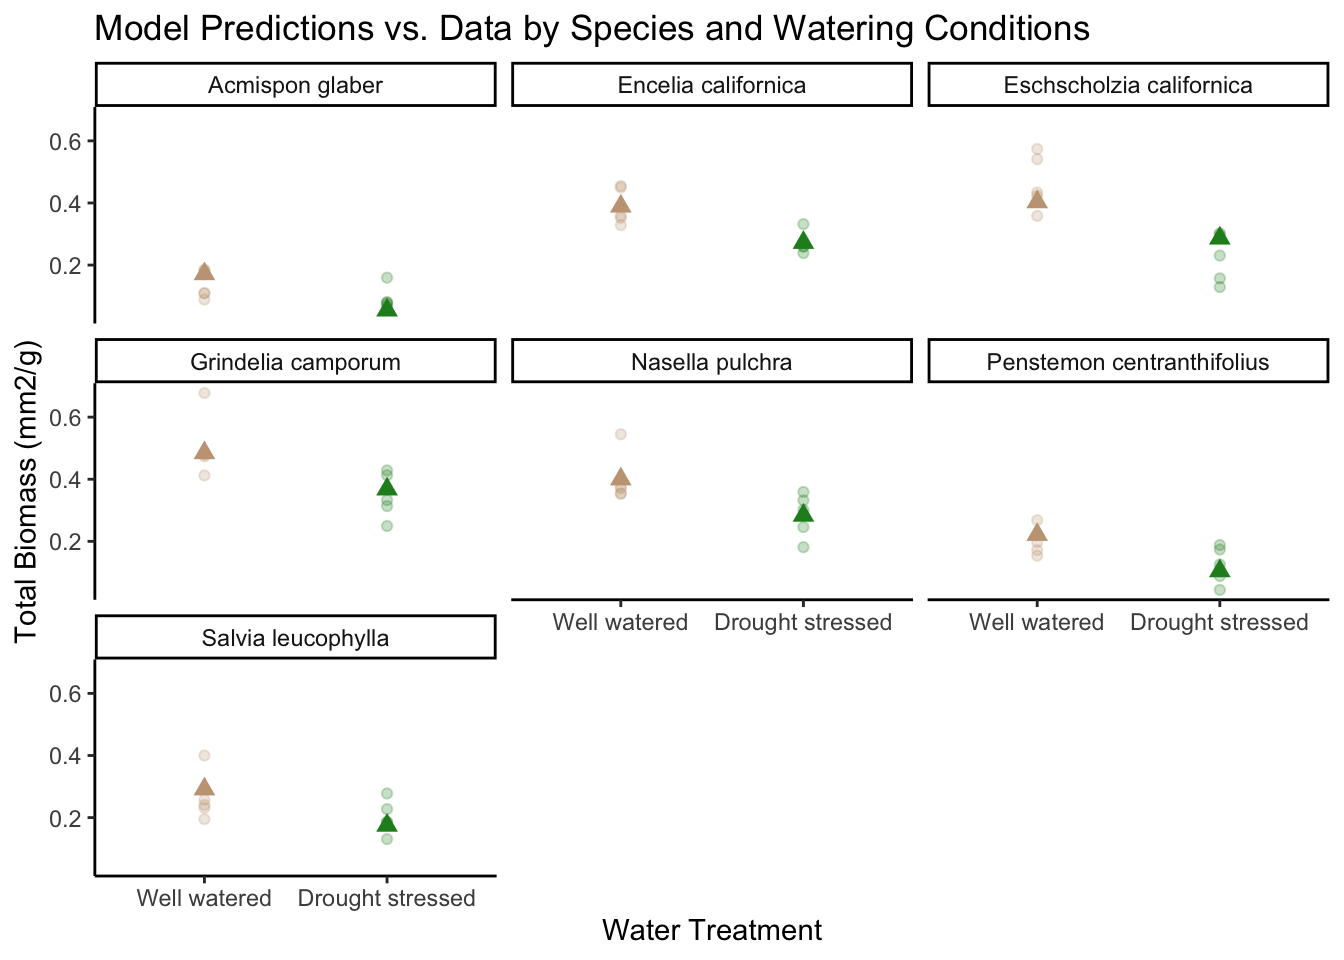
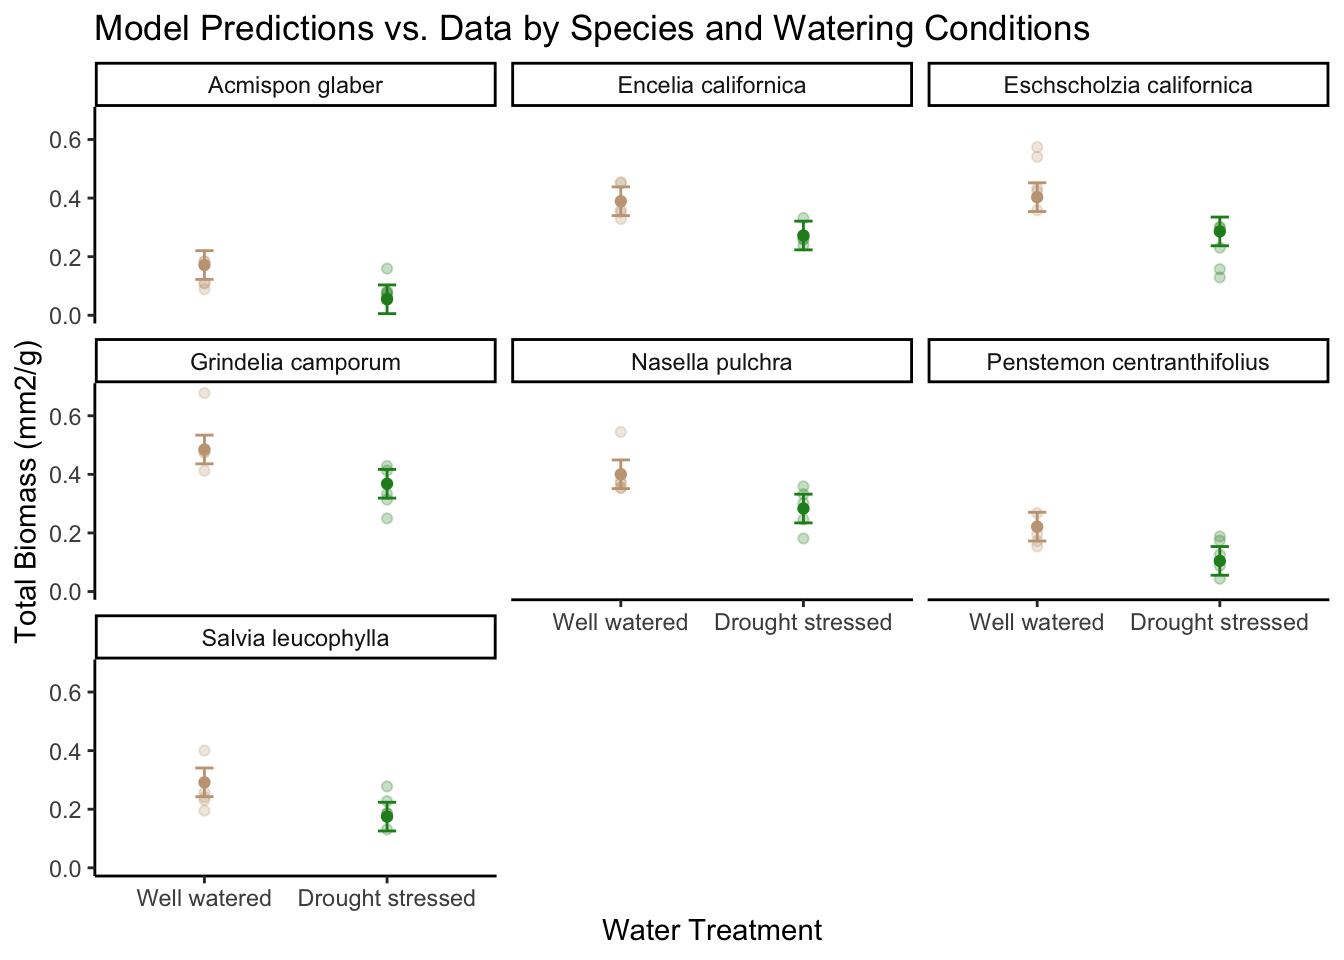
last edits i swear

diff --git a/code/ENVS193DS_homework-03.html b/code/ENVS193DS_homework-03.html
@@ -169,7 +169,7 @@ pre > code.sourceCode > span > a:first-child::before { text-decoration: underlin
 </colgroup>
 <tbody>
 <tr class="odd">
-<td><strong>Table 1: Comparison of Regression Models</strong>. This table shows the five regression models used to predict total biomass (g): “Null,” “Model 1,” “Model 2,” “Model 3,” and “Model 4.” Each column is a separate model. The header row indicates the predictor variable in question and check marks in the rows indicate that predictor variable was used in the model.</td>
+<td><strong>Table 1: Comparison of Regression Models</strong>. This table shows the five regression models used to predict total biomass (g): “Null,” “Model 1,” “Model 2,” “Model 3,” and “Model 4.” Each column is a separate model. The header row indicates the predictor variable in question and check marks in the rows indicate that predictor variable was used in the model. The last two rows indicate AICc and Δ AIC for each model.</td>
 </tr>
 </tbody>
 </table>
@@ -217,12 +217,28 @@ pre > code.sourceCode > span > a:first-child::before { text-decoration: underlin
 <td>✓</td>
 <td>✓</td>
 </tr>
+<tr class="even">
+<td><strong>AICc</strong></td>
+<td>-75.0</td>
+<td>-153.8</td>
+<td>-95.8</td>
+<td>-124.1</td>
+<td>-156.2</td>
+</tr>
+<tr class="odd">
+<td><strong>Δ AIC</strong></td>
+<td>81.22</td>
+<td>2.44</td>
+<td>60.37</td>
+<td>32.12</td>
+<td>0.000</td>
+</tr>
 </tbody>
 </table>
 </section>
 <section id="b.-statistical-methods" class="level3">
 <h3 class="anchored" data-anchor-id="b.-statistical-methods">b. Statistical Methods</h3>
-<p>To examine the influence of specific leaf area (mm<sup>2</sup>/g), watering level (well watered vs drought stressed, and species type on total biomass, I compared the five models outlined in the table above in order to determine which predictor variables best influence total biomass. I used the <code>model.sel</code> function from the <code>MuMIn</code> package which uses corrected (for smaller sample size) Akaike Information Criterion (AICc) to rank the provided models according to their AICc values. Model 4, which looks at total biomass as a function of water treatment and species, has the lowest AICc value (-156.2) and highest weight (0.772), indicating it is the best model among those compared. To evaluate linear model assumptions, I used the <code>plot</code> for each model to evaluate the diagnostic plots for residuals vs fitted values, the Normal Q-Q plot, the Scale-Location plot, and the residuals vs.&nbsp;leverage plot. These visual checks confirmed the models were homoscedastic, normally distributed, and linear.</p>
+<p>To examine the influence of specific leaf area (mm<sup>2</sup>/g), watering level (well watered vs drought stressed, and species type on total biomass, I compared the five models outlined in the table above in order to determine which predictor variables best influence total biomass. The null model uses no predictor variables and represents a scenario in which none of the variables predict total biomass. Model 1 is a saturated model which uses all of the predictor variables. I used the <code>model.sel</code> function from the <code>MuMIn</code> package which uses corrected (for smaller sample size) Akaike Information Criterion (AICc) to rank the provided models according to their AICc values. Model 4, which looks at total biomass as a function of water treatment and species, has the lowest AICc value (-156.2) and highest weight (0.772), indicating it is the best model among those compared. To evaluate linear model assumptions, I used the <code>plot</code> function for each model to evaluate the diagnostic plots for residuals vs fitted values, the Normal Q-Q plot, the Scale-Location plot, and the residuals vs.&nbsp;leverage plot. These visual checks confirmed the models were homoscedastic, normally distributed, and linear.</p>
 </section>
 <section id="c.-visualization" class="level3">
 <h3 class="anchored" data-anchor-id="c.-visualization">c.&nbsp;Visualization</h3>
@@ -254,24 +270,31 @@ pre > code.sourceCode > span > a:first-child::before { text-decoration: underlin
 <span id="cb4-16"><a href="#cb4-16" aria-hidden="true" tabindex="-1"></a>             <span class="fu">aes</span>(<span class="at">x =</span> water_treatment, <span class="co"># x axis is water treatment</span></span>
 <span id="cb4-17"><a href="#cb4-17" aria-hidden="true" tabindex="-1"></a>                 <span class="at">y =</span> predicted, <span class="co">#y axis is predicted total biomass (g)</span></span>
 <span id="cb4-18"><a href="#cb4-18" aria-hidden="true" tabindex="-1"></a>                 <span class="at">color =</span> water_treatment), <span class="co">#color based on water treatment </span></span>
-<span id="cb4-19"><a href="#cb4-19" aria-hidden="true" tabindex="-1"></a>             <span class="at">size =</span> <span class="fl">2.5</span>,  <span class="co"># Making model prediction points larger for visibility</span></span>
-<span id="cb4-20"><a href="#cb4-20" aria-hidden="true" tabindex="-1"></a>             <span class="at">shape =</span> <span class="dv">17</span>) <span class="sc">+</span>  <span class="co"># Changing shape to triangle for better differentiation</span></span>
-<span id="cb4-21"><a href="#cb4-21" aria-hidden="true" tabindex="-1"></a>  <span class="co"># Cleaner theme</span></span>
-<span id="cb4-22"><a href="#cb4-22" aria-hidden="true" tabindex="-1"></a>  <span class="fu">theme_classic</span>() <span class="sc">+</span></span>
-<span id="cb4-23"><a href="#cb4-23" aria-hidden="true" tabindex="-1"></a></span>
-<span id="cb4-24"><a href="#cb4-24" aria-hidden="true" tabindex="-1"></a>  <span class="co"># Add labels </span></span>
-<span id="cb4-25"><a href="#cb4-25" aria-hidden="true" tabindex="-1"></a>  <span class="fu">labs</span>(<span class="at">x =</span> <span class="st">"Water Treatment"</span>, <span class="at">y =</span> <span class="st">"Total Biomass (mm2/g)"</span>, <span class="at">title =</span> <span class="st">"Model Predictions vs. Data by Species and Watering Conditions"</span>) <span class="sc">+</span></span>
-<span id="cb4-26"><a href="#cb4-26" aria-hidden="true" tabindex="-1"></a>  </span>
-<span id="cb4-27"><a href="#cb4-27" aria-hidden="true" tabindex="-1"></a><span class="co"># Remove legend</span></span>
-<span id="cb4-28"><a href="#cb4-28" aria-hidden="true" tabindex="-1"></a>  <span class="fu">theme</span>(<span class="at">legend.position =</span> <span class="st">"none"</span>) <span class="sc">+</span></span>
-<span id="cb4-29"><a href="#cb4-29" aria-hidden="true" tabindex="-1"></a>  </span>
-<span id="cb4-30"><a href="#cb4-30" aria-hidden="true" tabindex="-1"></a><span class="co"># Creating different panels for species</span></span>
-<span id="cb4-31"><a href="#cb4-31" aria-hidden="true" tabindex="-1"></a>  <span class="fu">facet_wrap</span>(<span class="sc">~</span>species_name)</span></code><button title="Copy to Clipboard" class="code-copy-button"><i class="bi"></i></button></pre></div>
+<span id="cb4-19"><a href="#cb4-19" aria-hidden="true" tabindex="-1"></a>             <span class="at">size =</span> <span class="fl">1.5</span>,  <span class="co"># Making model prediction points larger for visibility</span></span>
+<span id="cb4-20"><a href="#cb4-20" aria-hidden="true" tabindex="-1"></a>             <span class="at">shape =</span> <span class="dv">19</span>) <span class="sc">+</span>  <span class="co"># Changing shape to triangle for better differentiation</span></span>
+<span id="cb4-21"><a href="#cb4-21" aria-hidden="true" tabindex="-1"></a>  <span class="fu">geom_errorbar</span>(<span class="at">data =</span> model_preds_for_plotting,  <span class="co"># Adding error bars</span></span>
+<span id="cb4-22"><a href="#cb4-22" aria-hidden="true" tabindex="-1"></a>                <span class="fu">aes</span>(<span class="at">x =</span> water_treatment, </span>
+<span id="cb4-23"><a href="#cb4-23" aria-hidden="true" tabindex="-1"></a>                    <span class="at">ymin =</span> conf.low,  <span class="co"># lower CI bound</span></span>
+<span id="cb4-24"><a href="#cb4-24" aria-hidden="true" tabindex="-1"></a>                    <span class="at">ymax =</span> conf.high,  <span class="co"># upper CI bound</span></span>
+<span id="cb4-25"><a href="#cb4-25" aria-hidden="true" tabindex="-1"></a>                    <span class="at">color =</span> water_treatment), <span class="co">#fill color based on water treatment</span></span>
+<span id="cb4-26"><a href="#cb4-26" aria-hidden="true" tabindex="-1"></a>                <span class="at">width =</span> <span class="fl">0.1</span>,  <span class="co"># Width of the error bars</span></span>
+<span id="cb4-27"><a href="#cb4-27" aria-hidden="true" tabindex="-1"></a>                <span class="at">size =</span> <span class="fl">0.5</span>) <span class="sc">+</span>  <span class="co"># Thickness of the error bars</span></span>
+<span id="cb4-28"><a href="#cb4-28" aria-hidden="true" tabindex="-1"></a>  <span class="co"># Cleaner theme</span></span>
+<span id="cb4-29"><a href="#cb4-29" aria-hidden="true" tabindex="-1"></a>  <span class="fu">theme_classic</span>() <span class="sc">+</span></span>
+<span id="cb4-30"><a href="#cb4-30" aria-hidden="true" tabindex="-1"></a></span>
+<span id="cb4-31"><a href="#cb4-31" aria-hidden="true" tabindex="-1"></a>  <span class="co"># Add labels </span></span>
+<span id="cb4-32"><a href="#cb4-32" aria-hidden="true" tabindex="-1"></a>  <span class="fu">labs</span>(<span class="at">x =</span> <span class="st">"Water Treatment"</span>, <span class="at">y =</span> <span class="st">"Total Biomass (mm2/g)"</span>, <span class="at">title =</span> <span class="st">"Model Predictions vs. Data by Species and Watering Conditions"</span>) <span class="sc">+</span></span>
+<span id="cb4-33"><a href="#cb4-33" aria-hidden="true" tabindex="-1"></a>  </span>
+<span id="cb4-34"><a href="#cb4-34" aria-hidden="true" tabindex="-1"></a><span class="co"># Remove legend</span></span>
+<span id="cb4-35"><a href="#cb4-35" aria-hidden="true" tabindex="-1"></a>  <span class="fu">theme</span>(<span class="at">legend.position =</span> <span class="st">"none"</span>) <span class="sc">+</span></span>
+<span id="cb4-36"><a href="#cb4-36" aria-hidden="true" tabindex="-1"></a>  </span>
+<span id="cb4-37"><a href="#cb4-37" aria-hidden="true" tabindex="-1"></a><span class="co"># Creating different panels for species</span></span>
+<span id="cb4-38"><a href="#cb4-38" aria-hidden="true" tabindex="-1"></a>  <span class="fu">facet_wrap</span>(<span class="sc">~</span>species_name)</span></code><button title="Copy to Clipboard" class="code-copy-button"><i class="bi"></i></button></pre></div>
 <div class="cell-output-display">
 <p><img src="ENVS193DS_homework-03_files/figure-html/unnamed-chunk-4-1.png" class="img-fluid" width="672"></p>
 </div>
 </div>
-<p><strong>Figure 1: Well-watered plants tend to have higher total biomass than drought stressed plants.</strong> The above graph shows differences in total plant biomass between different water treatment types and species. The lighter circular points indicate underlying data while the triangular points indicate the model prediction values for each group. Among all species, well watered groups have higher predicted biomass than drought-stressed groups. Species type also influences predicted total biomass.</p>
+<p><strong>Figure 1: Well-watered plants tend to have higher total biomass than drought stressed plants.</strong> The above graph shows differences in total plant biomass between different water treatment types and species. The lighter circular points indicate underlying data while the triangular points indicate the model prediction values for each group. Among all species, well watered groups have higher predicted biomass than drought-stressed groups. Species type also influences predicted total biomass. Data from <a href="https://doi.org/10.5061/dryad.v0861f7">Valliere, Zhang, Sharifi, Rundel, 2019</a>.</p>
 </section>
 <section id="e.-results" class="level3">
 <h3 class="anchored" data-anchor-id="e.-results">e. Results</h3>
@@ -295,27 +318,32 @@ pre > code.sourceCode > span > a:first-child::before { text-decoration: underlin
 <span id="cb5-2"><a href="#cb5-2" aria-hidden="true" tabindex="-1"></a>Breakouts <span class="ot">&lt;-</span> <span class="fu">read_csv</span> (<span class="st">"../data/BreakoutsMay30.csv"</span>)</span>
 <span id="cb5-3"><a href="#cb5-3" aria-hidden="true" tabindex="-1"></a></span>
 <span id="cb5-4"><a href="#cb5-4" aria-hidden="true" tabindex="-1"></a>base_plot <span class="ot">&lt;-</span> <span class="fu">ggplot</span>()<span class="sc">+</span> <span class="co">#create figure</span></span>
-<span id="cb5-5"><a href="#cb5-5" aria-hidden="true" tabindex="-1"></a>  <span class="fu">geom_col</span>(<span class="at">data =</span> Breakouts, <span class="co">#ata is from breakout file, figure type is a bar chart</span></span>
+<span id="cb5-5"><a href="#cb5-5" aria-hidden="true" tabindex="-1"></a>  <span class="fu">geom_col</span>(<span class="at">data =</span> Breakouts, <span class="co">#ata is from breakout file, figure type = bar chart</span></span>
 <span id="cb5-6"><a href="#cb5-6" aria-hidden="true" tabindex="-1"></a>                 <span class="fu">aes</span>(<span class="at">x =</span> treatment_day, <span class="co"># x axis is treatment day </span></span>
 <span id="cb5-7"><a href="#cb5-7" aria-hidden="true" tabindex="-1"></a>                     <span class="at">y =</span> pimples, <span class="co"># y axis is number of breakouts </span></span>
 <span id="cb5-8"><a href="#cb5-8" aria-hidden="true" tabindex="-1"></a>                     <span class="at">fill =</span> followed_plan))<span class="sc">+</span></span>
-<span id="cb5-9"><a href="#cb5-9" aria-hidden="true" tabindex="-1"></a>    <span class="fu">scale_fill_manual</span>(<span class="at">values =</span> <span class="fu">c</span>(<span class="st">"Yes"</span> <span class="ot">=</span> <span class="st">"pink"</span>, <span class="st">"No"</span> <span class="ot">=</span> <span class="st">"skyblue"</span>))<span class="sc">+</span> <span class="co"># Specify colors</span></span>
+<span id="cb5-9"><a href="#cb5-9" aria-hidden="true" tabindex="-1"></a>    <span class="fu">scale_fill_manual</span>(<span class="at">values =</span> <span class="fu">c</span>(<span class="st">"Yes"</span> <span class="ot">=</span> <span class="st">"pink"</span>, <span class="st">"No"</span> <span class="ot">=</span> <span class="st">"skyblue"</span>))<span class="sc">+</span> <span class="co"># colors</span></span>
 <span id="cb5-10"><a href="#cb5-10" aria-hidden="true" tabindex="-1"></a></span>
 <span id="cb5-11"><a href="#cb5-11" aria-hidden="true" tabindex="-1"></a><span class="co"># Cleaner theme</span></span>
 <span id="cb5-12"><a href="#cb5-12" aria-hidden="true" tabindex="-1"></a>  <span class="fu">theme_classic</span>() <span class="sc">+</span></span>
 <span id="cb5-13"><a href="#cb5-13" aria-hidden="true" tabindex="-1"></a></span>
 <span id="cb5-14"><a href="#cb5-14" aria-hidden="true" tabindex="-1"></a><span class="co"># Add labels </span></span>
-<span id="cb5-15"><a href="#cb5-15" aria-hidden="true" tabindex="-1"></a>  <span class="fu">labs</span>(<span class="at">x =</span> <span class="st">"Treatment Day"</span>, <span class="at">y =</span> <span class="st">"Number of Breakouts"</span>, <span class="at">title =</span> <span class="st">"Breakouts Throughout my Treatment"</span>, <span class="at">fill =</span> <span class="st">"Followed Treatment Plan"</span>) <span class="sc">+</span></span>
-<span id="cb5-16"><a href="#cb5-16" aria-hidden="true" tabindex="-1"></a>  </span>
-<span id="cb5-17"><a href="#cb5-17" aria-hidden="true" tabindex="-1"></a><span class="co"># Remove legend</span></span>
-<span id="cb5-18"><a href="#cb5-18" aria-hidden="true" tabindex="-1"></a><span class="fu">theme</span>(<span class="at">legend.position =</span> <span class="st">"top"</span>) <span class="sc">+</span></span>
-<span id="cb5-19"><a href="#cb5-19" aria-hidden="true" tabindex="-1"></a> <span class="co"># Remove space between x-axis and bars</span></span>
-<span id="cb5-20"><a href="#cb5-20" aria-hidden="true" tabindex="-1"></a>  <span class="fu">scale_y_continuous</span>(<span class="at">expand =</span> <span class="fu">c</span>(<span class="dv">0</span>, <span class="dv">0</span>))<span class="sc">+</span></span>
-<span id="cb5-21"><a href="#cb5-21" aria-hidden="true" tabindex="-1"></a>  <span class="fu">scale_x_continuous</span>(<span class="at">expand =</span> <span class="fu">c</span>(<span class="dv">0</span>,<span class="dv">0</span>)) </span></code><button title="Copy to Clipboard" class="code-copy-button"><i class="bi"></i></button></pre></div>
+<span id="cb5-15"><a href="#cb5-15" aria-hidden="true" tabindex="-1"></a>  <span class="fu">labs</span>(<span class="at">x =</span> <span class="st">"Treatment Day"</span>, </span>
+<span id="cb5-16"><a href="#cb5-16" aria-hidden="true" tabindex="-1"></a>       <span class="at">y =</span> <span class="st">"Number of Breakouts"</span>, </span>
+<span id="cb5-17"><a href="#cb5-17" aria-hidden="true" tabindex="-1"></a>       <span class="at">title =</span> <span class="st">"Breakouts Throughout my Treatment"</span>, </span>
+<span id="cb5-18"><a href="#cb5-18" aria-hidden="true" tabindex="-1"></a>       <span class="at">fill =</span> <span class="st">"Followed Treatment Plan"</span>) <span class="sc">+</span></span>
+<span id="cb5-19"><a href="#cb5-19" aria-hidden="true" tabindex="-1"></a>  </span>
+<span id="cb5-20"><a href="#cb5-20" aria-hidden="true" tabindex="-1"></a><span class="co"># Remove legend</span></span>
+<span id="cb5-21"><a href="#cb5-21" aria-hidden="true" tabindex="-1"></a><span class="fu">theme</span>(<span class="at">legend.position =</span> <span class="st">"top"</span>) <span class="sc">+</span></span>
+<span id="cb5-22"><a href="#cb5-22" aria-hidden="true" tabindex="-1"></a> <span class="co"># Remove space between x-axis and bars</span></span>
+<span id="cb5-23"><a href="#cb5-23" aria-hidden="true" tabindex="-1"></a>  <span class="fu">scale_y_continuous</span>(<span class="at">expand =</span> <span class="fu">c</span>(<span class="dv">0</span>, <span class="dv">0</span>))<span class="sc">+</span></span>
+<span id="cb5-24"><a href="#cb5-24" aria-hidden="true" tabindex="-1"></a>  <span class="fu">scale_x_continuous</span>(<span class="at">expand =</span> <span class="fu">c</span>(<span class="dv">0</span>,<span class="dv">0</span>)) </span>
+<span id="cb5-25"><a href="#cb5-25" aria-hidden="true" tabindex="-1"></a><span class="co"># note: not actually showing this output here because I took it and edited </span></span>
+<span id="cb5-26"><a href="#cb5-26" aria-hidden="true" tabindex="-1"></a><span class="co"># it furtherin canva, which is the image you see below! </span></span></code><button title="Copy to Clipboard" class="code-copy-button"><i class="bi"></i></button></pre></div>
 </div>
 </section>
 <section id="section" class="level3">
-<h3 class="anchored" data-anchor-id="section"><img src="images/clipboard-2891628687.png" class="img-fluid"></h3>
+<h3 class="anchored" data-anchor-id="section"><img src="images/clipboard-3676468120.png" class="img-fluid"></h3>
 </section>
 <section id="d.-artistic-statement" class="level3">
 <h3 class="anchored" data-anchor-id="d.-artistic-statement">d.&nbsp;Artistic Statement</h3>
